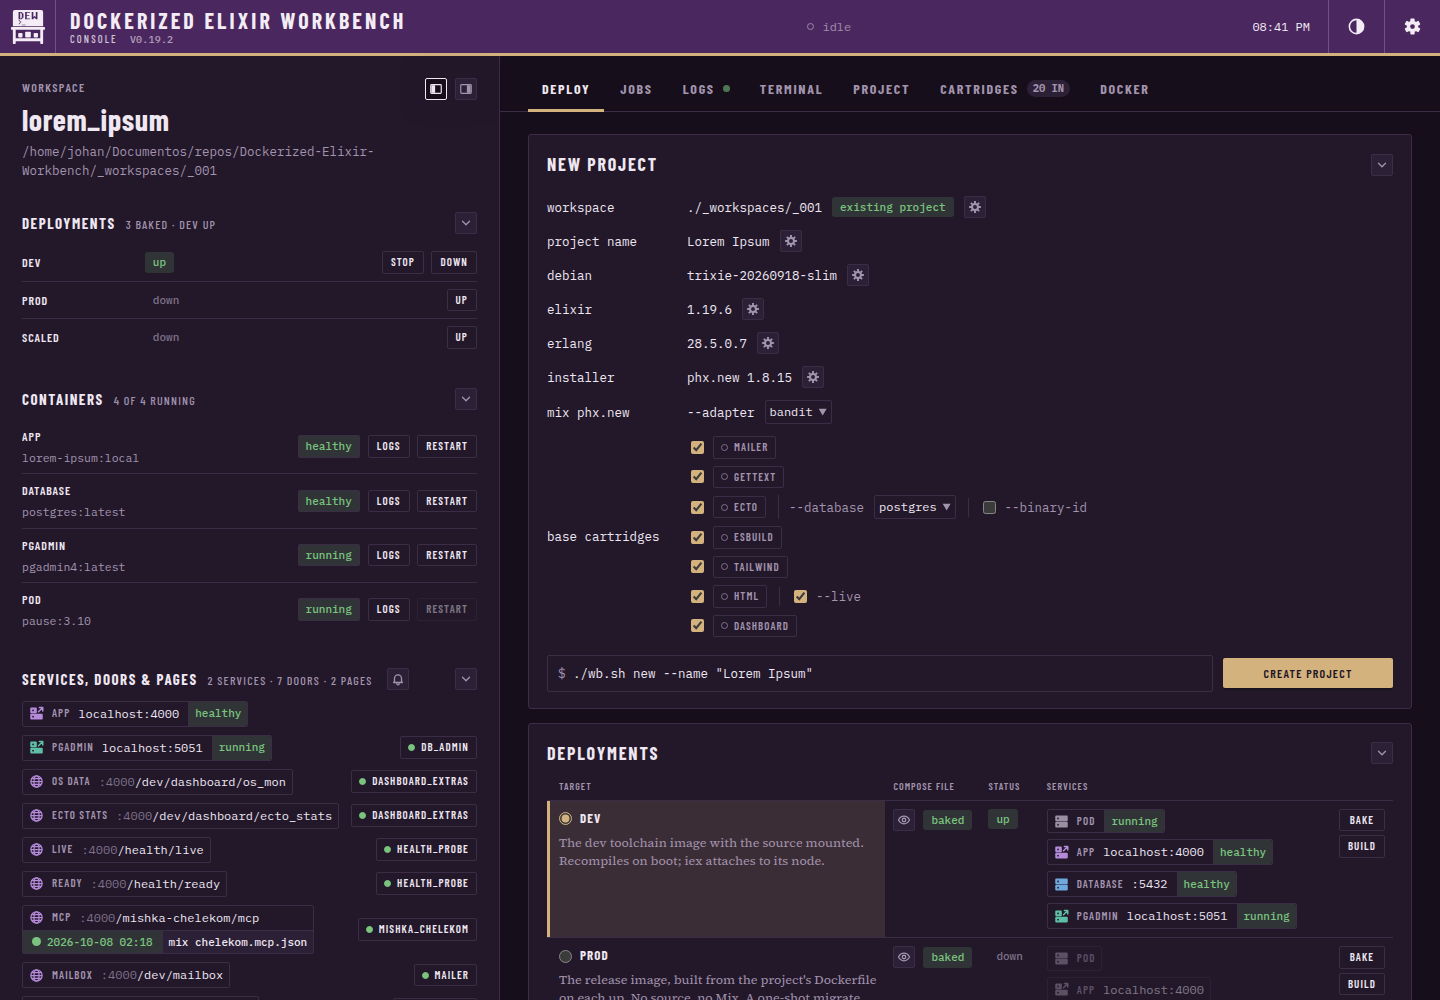
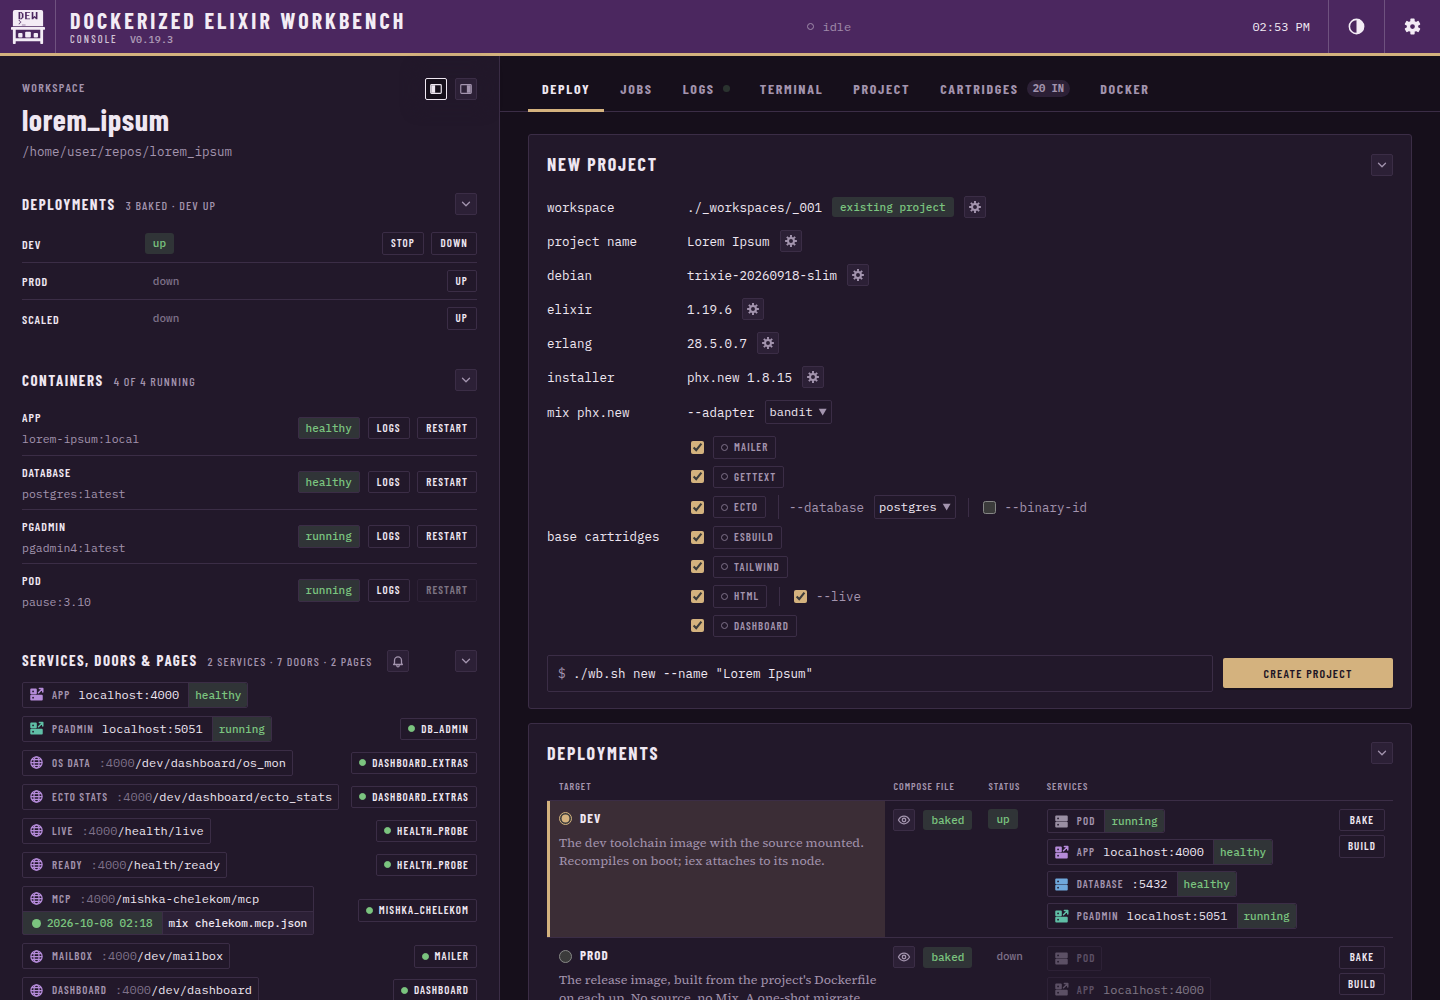
Two captures of the README, taken again without the author's path

diff --git a/CHANGELOG.md b/CHANGELOG.md
@@ -14,6 +14,15 @@ This project adheres to [Semantic Versioning](https://semver.org/spec/v2.0.0.htm
 
 ## Unreleased
 
+### Updated
+
+- **Two captures of the README, taken again without the author's
+  path.** `assets/readme/console/hero.png` and `rail.png` showed the
+  console's workspace line with the path of the machine they were
+  taken on; they are the same captures with
+  `/home/user/repos/lorem_ipsum` in its place. What the pictures show
+  of the console is unchanged.
+
 ## v0.19.3 - (2026-10-07)
 
 ### Updated
